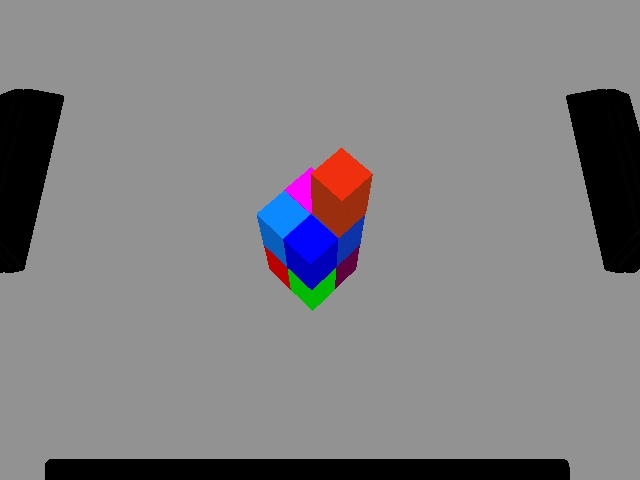
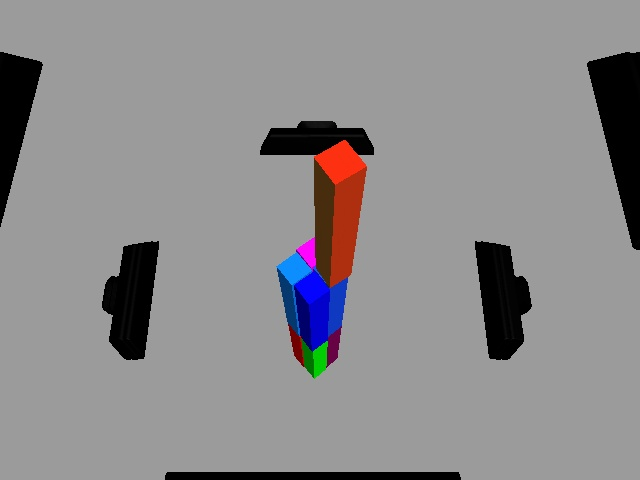
starting to make generate schematic work with new block sizes

diff --git a/src/generate_schematic/src/generate_schematic.py b/src/generate_schematic/src/generate_schematic.py
@@ -15,6 +15,9 @@ IMAGE_IN_PATH = "images/gazebo_angled_image_one.jpg"
 IMAGE_OUT_NAME = "gazebo_angled_image_one_clustering.jpg"
 
 OUTPUT_FILE = "output/schematic.txt"
+BLOCK_X = 0.05
+BLOCK_Y = 0.05
+BLOCK_Z = .4
 
 def main():
     rospy.init_node("schematic_node", anonymous = True)
@@ -29,27 +32,30 @@ def main():
     #remove duplicates
     world_coordinates = unique_rows(world_coordinates)
     before_apply_square_world_coordinates = world_coordinates.copy()[world_coordinates[:, 2] >= 0]
-
+    print(world_coordinates)
     #go downward layer by layer, and at each layer remove non-squares and project points to lower layers
     max_z_coordinate = max(world_coordinates[:, 2])
     z = max_z_coordinate
-    z_diff = .12
+    z_diff = BLOCK_Z
     filtered_layers = []
     while (z >= 0):
-        cur_layer = np.array([c for c in world_coordinates if c[2] == z])
+        print("z", z)
+        cur_layer = np.array([c for c in world_coordinates if np.isclose(c[2], z)])
+        print(cur_layer)
         cur_layer = apply_square_filter(cur_layer)
         if len(cur_layer) != 0:
             filtered_layers.append(cur_layer)
         if z != 0:
             for point in cur_layer:
                 world_coordinates = np.vstack((world_coordinates, np.array([point[0], point[1], z - z_diff])))
+        print("world coordinates after pushiing down points", world_coordinates)
         world_coordinates = unique_rows(world_coordinates)
         z -= z_diff
 
     world_coordinates = np.vstack(filtered_layers)
 
     #add points from first layer to second layer
-    first_layer = np.array([c for c in world_coordinates if c[2] == 0])
+    first_layer = np.array([c for c in world_coordinates if np.isclose(c[2], 0)])
     new_second_layer_points = np.array([[c[0], c[1], c[2] + z_diff] for c in first_layer])
     world_coordinates = np.vstack((world_coordinates, new_second_layer_points))
     world_coordinates = unique_rows(world_coordinates)
@@ -66,7 +72,7 @@ def apply_square_filter(coordinates):
     coordinate_set = set()
     for coordinate in coordinates:
         coordinate_set.add(tuple(coordinate))
-    x_diff, y_diff = 0.06, 0.06
+    x_diff, y_diff = BLOCK_X, BLOCK_Y
     #remove points that aren't part of squares
     filtered_coordinates = []
     for coordinate in coordinates:
@@ -76,7 +82,7 @@ def apply_square_filter(coordinates):
                             [(x + x_diff, y, z), (x, y - y_diff, z), (x + x_diff, y - y_diff, z)],
                             [(x - x_diff, y, z), (x, y + y_diff, z), (x - x_diff, y + y_diff, z)]]
         for square in possible_squares:
-            square_corners = [square[i] in coordinate_set for i in range(3)]
+            square_corners = [np.any(np.isclose(coordinates, square[i])) for i in range(3)]
             if sum(square_corners) >= 3:
                 filtered_coordinates.append(coordinate)
     return np.array(filtered_coordinates)
@@ -95,7 +101,7 @@ def get_coordinates_for_pair(n1, n2):
     #remove points with z-coordinate that doesn't make sense
     tolerances = np.array([0.01, 0.01, 0.02])
     offset = np.array([2, 0, 0])
-    multiple = np.array([0.06, 0.06, 0.12])
+    multiple = np.array([BLOCK_X, BLOCK_Y, BLOCK_Z])
     world_coordinates = world_coordinates[close_to_multiples_of(world_coordinates, multiple, offset, tolerances)]
     return round_nearest(world_coordinates, offset, multiple)
 

diff --git a/src/generate_schematic/src/image_matching.py b/src/generate_schematic/src/image_matching.py
@@ -38,6 +38,7 @@ class ImageMatching:
         filtered_matches = [m for m,b in zip(matches, inlier_mask) if b == 1]
         left_matches = np.array([kp1[filtered_matches[i].queryIdx].pt for i in range(len(filtered_matches))])
         right_matches = np.array([kp2[filtered_matches[i].trainIdx].pt for i in range(len(filtered_matches))])
+        # ImageMatching.draw_matches(camera1.image, kp1, camera2.image, kp2, filtered_matches)
         coordinates = ImageMatching.get_matched_3d_coordinates(left_matches, right_matches, R21, T21, camera1.intrinsic_matrix, camera2.intrinsic_matrix)
         coordinates = np.reshape(coordinates, (len(coordinates), 3))
         return coordinates
@@ -55,6 +56,12 @@ class ImageMatching:
         ax.scatter(x_coords, y_coords, z_coords)
         if ax == None:
             plt.show()
+
+    @staticmethod
+    def draw_matches(image1, keypoints1, image2, keypoints2, matches):
+        img3 = cv2.drawMatches(image1, keypoints1, image2, keypoints2, matches, None, flags=2)
+        plt.imshow(img3)
+        plt.show()
 
     # Helpers--------------------------------------------------------------------------------------
 

diff --git a/src/global_constants/src/global_constants/constants.py b/src/global_constants/src/global_constants/constants.py
@@ -17,7 +17,7 @@ CAMERA_DATA = [
 
 ]
 
-zs = [0.33, 0.66, 1]
+zs = [0.6, 1.2, 1.8]
 deltas = [(.3, .3, np.pi + np.pi/4), (-.3, .3, 2 * np.pi -np.pi/4), (-.3, -.3, np.pi/4), (.3, -.3, np.pi/2 + np.pi/4)]
 for delta in deltas:
     for z in zs:
